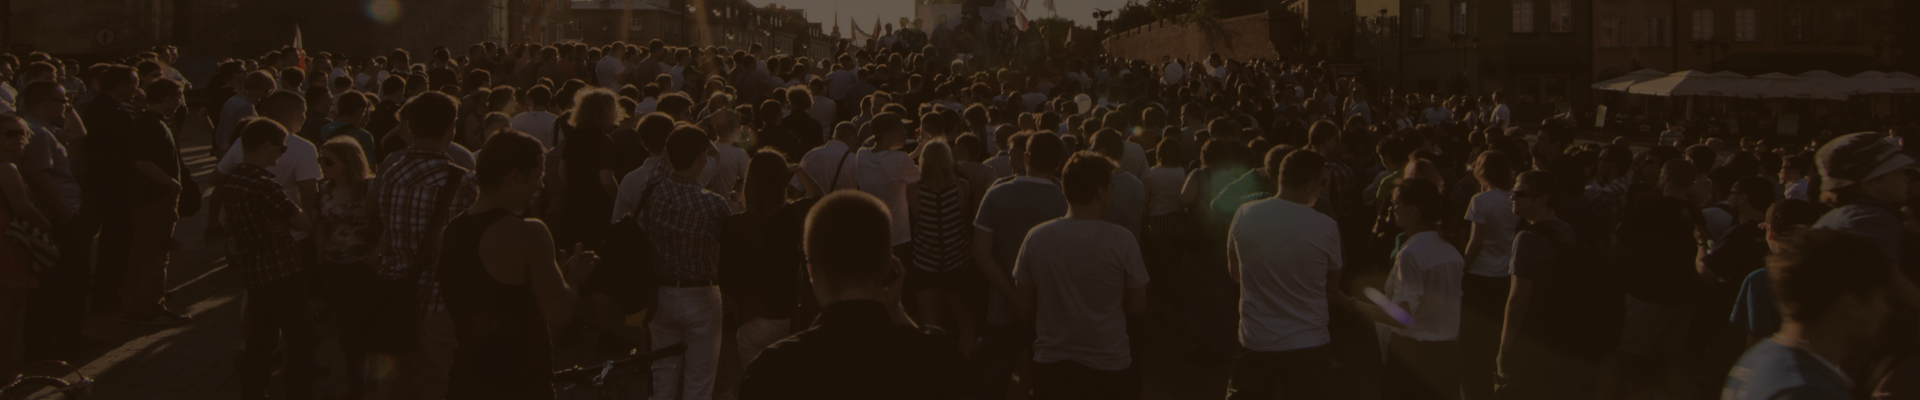
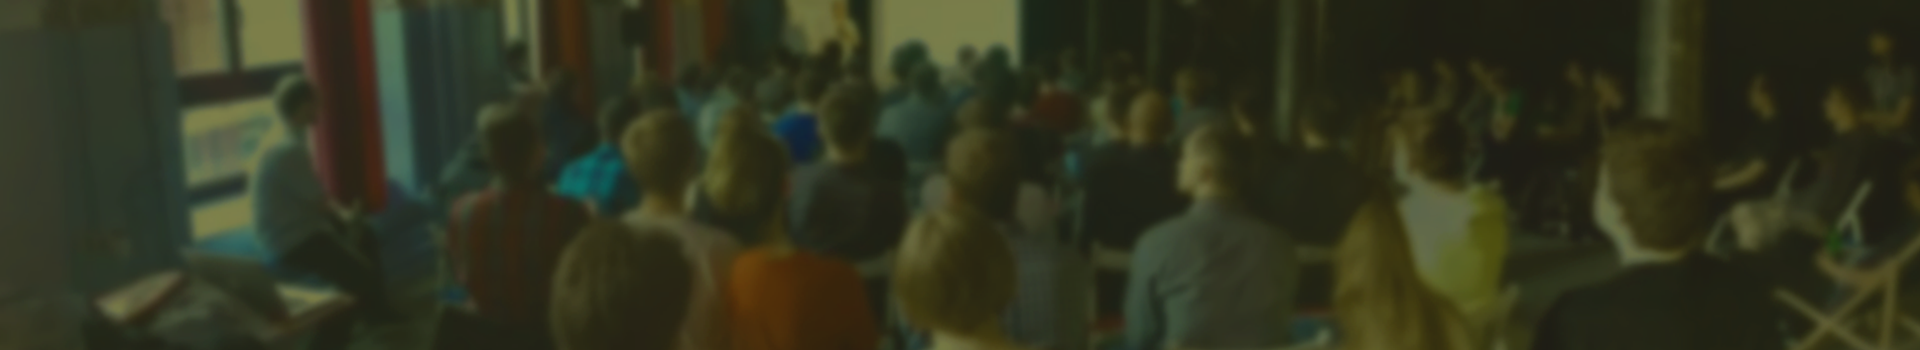
new design version, new background photos

diff --git a/summit/templates/index.html b/summit/templates/index.html
@@ -14,21 +14,25 @@
   {% compress css %}
   <link rel="stylesheet" type="text/x-scss" href="{% static 'scss/main.scss' %}" />
   {% endcompress %}
+  <link href='http://fonts.googleapis.com/css?family=Lato:400,100,100italic,300,300italic,400italic,700,700italic,900,900italic' rel='stylesheet' type='text/css'>
+  <link href='http://fonts.googleapis.com/css?family=Questrial' rel='stylesheet' type='text/css'>
 </head>
 <body>
   <div class="header">
+
+    <div class="navigation-button">
+    </div>
+    <ul class="header-media">
+      <li class="header-media__item"><a class="header-media__link header-media--mail" href="mailto:info@pywaw.org" target="_blank" class="media__link" ></a></li>
+      <li class="header-media__item"><a class="header-media__link header-media--twitter" href="https://twitter.com/PyWawSummit" target="_blank" class="media__link"></a></li>
+      <li class="header-media__item"><a class="header-media__link header-media--facebook" href="https://www.facebook.com/PyWawSummit" target="_blank" class="media__link" ></a></li>
+    </ul>
     <ul class="navigation">
       <li class="navigation__item"><a href="{% url 'home' %}#about" class="navigation__link">About</a></li>
       <li class="navigation__item"><a href="{% url 'home' %}#stats" class="navigation__link">Stats</a></li>
       <li class="navigation__item"><a href="{% url 'home' %}#venue" class="navigation__link">Venue</a></li>
       <li class="navigation__item"><a href="{% url 'home' %}#organisers" class="navigation__link">Organisers</a></li>
       <li class="navigation__item"><a href="{% url 'home' %}#media" class="navigation__link">Media</a></li>
-    </ul>
-    <div class="navigation-button">
-    </div>
-    <ul class="header-media">
-      <li class="header-media__item"><a class="header-media__link header-media--twitter" href="https://twitter.com/PyWawSummit" target="_blank" class="media__link"></a></li>
-      <li class="header-media__item"><a class="header-media__link header-media--facebook" href="https://www.facebook.com/PyWawSummit" target="_blank" class="media__link" ></a></li>
     </ul>
   </div>
   <div class="intro-container">
@@ -52,26 +56,66 @@
       </div>
     </div>
   </div>
-
   <div class="stats" id="stats">
     <h2 class="stats__title">Stats</h2>
     <dl class="stats__list">
-      <li class="stats__item"><span class="stats__data">250+</span><span class="stats__name">attendees</span></li>
+      <li class="stats__item"><span class="stats__data">250</span><span class="stats__name">attendees</span></li>
       <li class="stats__item"><span class="stats__data">1</span><span class="stats__name">track</span></li>
       <li class="stats__item"><span class="stats__data">20</span><span class="stats__name">talks</span></li>
       <li class="stats__item"><span class="stats__data">2</span><span class="stats__name">days</span></li>
     </dl>
   </div>
 
-  <!--<div id="speakers">-->
-    <!--<h2>Speakers</h2>-->
-    <!--<ul>-->
-      <!--<li><img src="{{ STATIC_URL }}/img/organizers/konrad_halas.jpg" />Konrad Hałas</li>-->
-      <!--<li><img src="{{ STATIC_URL }}/img/organizers/przemek_lewandowski.jpg" />Przemek Lewandowski</li>-->
-      <!--<li><img src="{{ STATIC_URL }}/img/organizers/piotr_betkier.jpg" />Piotr Betkier</li>-->
-    <!--</ul>-->
-    <!--<button>See all speakers</button>-->
-  <!--</div>-->
+  <!--
+  <div class="speakers-container" id="speakers">
+    <div class="organisers">
+      <h2 class="organisers__title">Speakers</h2>
+      <ul class="organisers__row5">
+        <li>
+          <img src="{{ STATIC_URL }}img/organisers/konrad.png" />
+          <span class="organisers__info">Konrad Hałas</span>
+        </li>
+        <li>
+          <img src="{{ STATIC_URL }}img/organisers/przemek.png" />
+          <span class="organisers__info">Przemek Lewandowski</span>
+        </li>
+        <li>
+          <img src="{{ STATIC_URL }}img/organisers/piotr.png" />
+          <span class="organisers__info">Piotr Betkier</span>
+        </li>
+        <li>
+          <img src="{{ STATIC_URL }}img/organisers/wojtek.png" />
+          <span class="organisers__info">Wojtek Erbetowski</span>
+        </li>
+        <li>
+          <img src="{{ STATIC_URL }}img/organisers/justyna.png" />
+          <span class="organisers__info">Justyna Sadło</span>
+        </li>
+      </ul>
+      <ul class="organisers__row4 large-centered">
+        <li>
+          <img src="{{ STATIC_URL }}img/organisers/szymon.png" />
+          <span class="organisers__info">Szymon Teżewski</span>
+        </li>
+        <li>
+          <img src="{{ STATIC_URL }}img/organisers/tomek.png" />
+          <span class="organisers__info">Tomasz Ducin</span>
+        </li>
+        <li>
+          <img src="{{ STATIC_URL }}img/organisers/michal.png" />
+          <span class="organisers__info">Michał Chałupczak</span>
+        </li>
+        <li>
+          <img src="{{ STATIC_URL }}img/organisers/ania.png" />
+          <span class="organisers__info">Ania Wszeborowska</span>
+        </li>
+      </ul>
+    </div>
+  </div>
+
+
+-->
+
 
   <div class="venue-container" id="venue">
     <div class="map" id="map"></div>
@@ -128,15 +172,6 @@
           <img src="{{ STATIC_URL }}img/organisers/ania.png" />
           <span class="organisers__info">Ania Wszeborowska</span>
         </li>
-      </ul>
-    </div>
-  </div>
-  <div class="media-container" id="media">
-    <div class="media">
-      <ul class="media__list">
-        <li class="media__item"><a href="https://twitter.com/PyWawSummit" target="_blank" class="media__link" ><img src="{% static 'img/icons/twitter.svg' %}" alt="Twitter"></a></li>
-        <li class="media__item"><a href="https://www.facebook.com/PyWawSummit" target="_blank" class="media__link" ><img src="{% static 'img/icons/facebook.svg' %}" alt="Facebook"></a></li>
-        <li class="media__item"><a href="mailto:info@pywaw.org" class="media__link" target="_blank"><img src="{% static 'img/icons/email.svg' %}" alt="E-mail"></a></li>
       </ul>
     </div>
   </div>

diff --git a/summit/static/scss/_theme.scss b/summit/static/scss/_theme.scss
@@ -1,12 +1,7 @@
-@font-face {
-  font-family: 'Questrial-Regular';
-  font-style: normal;
-  font-weight: normal;
-  src: url(../../fonts/Questrial-Regular.otf) format('opentype');
-}
+
 
 body {
-  font-family: 'Questrial-Regular', sans-serif;
+  font-family: 'Lato', sans-serif;
   color: $grey-color;
 }
 
@@ -20,18 +15,22 @@ a {
 
 @mixin title-font() {
   text-transform: uppercase;
-  font-size: 36px;
+  font-size: rem-calc(30);
+  font-weight: 400;
 }
 
 @mixin section-title() {
   @include grid-column(12);
   @include title-font;
+
+  color: $orange-color;
 }
 
 .header {
   width: 100%;
-  height: 32px;
-  background-color: $dark-grey-color;
+  height: 35px;
+  background-color: $orange-color;
+
   @media #{$small-only} {
     height: 60px;
   }
@@ -40,22 +39,29 @@ a {
 .navigation {
   float: right;
   list-style-type: none;
-  margin: 0;
   padding: 0;
+  margin: 0;
+  line-height: rem-calc(15);
+
   @media #{$small-only} {
     display: none;
   }
 }
 
 .navigation__item {
-  display: inline;
-  margin-right: 20px;
+  float: left;
 }
 
 .navigation__link {
   text-transform: uppercase;
   color: white;
-  font-size: 18px;
+  font-size: rem-calc(18);
+  display: block;
+  padding: 10px 27px;
+  
+  &:hover {
+    background: #000000;
+  }
 }
 
 .navigation-button {
@@ -65,6 +71,7 @@ a {
   width: 60px;
   height: 100%;
   margin-left: 10px;
+
   @media #{$small-only} {
     display: block;
     float: left;
@@ -75,7 +82,9 @@ a {
   list-style-type: none;
   padding: 0;
   margin: 0;
-  display: none;
+  display: block;
+  float: right;
+  
   @media #{$small-only} {
     display: block;
   }
@@ -88,8 +97,11 @@ a {
 
 .header-media__link {
   display: block;
-  width: 60px;
-  height: 60px;
+  width: 35px;
+  height: 35px;
+  background-size: contain !important;
+  margin: 0 10px;
+
 }
 
 .header-media--twitter {
@@ -98,6 +110,10 @@ a {
 
 .header-media--facebook {
   background: url(../../img/icons/facebook.svg) no-repeat center;
+}
+
+.header-media--mail {
+  background: url(../../img/icons/email.svg) no-repeat center;
 }
 
 .navigation-button2{
@@ -116,9 +132,12 @@ a {
 }
 
 .event-name {
-  font-size: 70px;
+  font-family: Questrial;
+  font-size: 68px;
   margin-top: 0;
   margin-bottom: 0;
+  letter-spacing: 1px;
+
   @media #{$small-only} {
     font-size: 42px;
   }
@@ -135,7 +154,7 @@ a {
 }
 
 .about-container {
-  background: url(../../img/backgrounds/about.png) no-repeat;
+  background: url('../../img/backgrounds/about.png') no-repeat;
   background-size: cover;
 }
 
@@ -143,6 +162,8 @@ a {
   @include grid-row();
   padding-bottom: 50px;
   color: white;
+  font-family: 'Lato';
+  font-weight: 300;
 }
 
 .about__title {
@@ -161,10 +182,6 @@ a {
   @media #{$small-only} {
     @include grid-column(12);
   }
-}
-
-.about__intro {
-  text-indent: 30px;
 }
 
 .stats {
@@ -190,17 +207,23 @@ a {
 }
 
 .stats__data {
-  color: $orange-color;
+  color: $blue-color;
   font-size: 100px;
   display: block;
 }
 
 .stats__name {
   font-size: 40px;
+  color: #7F807D;
 }
 
 .organisers-container {
-  background-image: url(../../img/backgrounds/organisers.png);
+  background-image: url('../../img/backgrounds/organisers.jpg');
+  color: white;
+}
+
+.speakers-container {
+  background-image: url('../../img/backgrounds/speakers.jpg');
   color: white;
 }
 
@@ -222,7 +245,9 @@ a {
 }
 
 .organisers__info {
-
+  width: 100%;
+  text-align: center;
+  display: inline-block;
 }
 
 .venue-container {
@@ -272,7 +297,7 @@ a {
 }
 
 .media-container {
-  background-image: url(../../img/backgrounds/media.png);
+  background-image: url('../../img/backgrounds/media.png');
   color: white;
 }
 

diff --git a/summit/static/js/venue.js b/summit/static/js/venue.js
@@ -8,7 +8,8 @@ function showGoogleMaps() {
         zoom: 17,
         mapTypeId: google.maps.MapTypeId.ROADMAP,
         center: latLng,
-        scrollwheel: false
+        scrollwheel: false,
+        styles: [{"stylers": [{ "hue": "#ffb300" }]}]
     };
  
     map = new google.maps.Map(document.getElementById('map'),

diff --git a/summit/static/scss/_variables.scss b/summit/static/scss/_variables.scss
@@ -1,3 +1,4 @@
 $orange-color: #E89715;
 $grey-color: #7F7F7C;
 $dark-grey-color: #474747;
+$blue-color: #2ea0c2;
